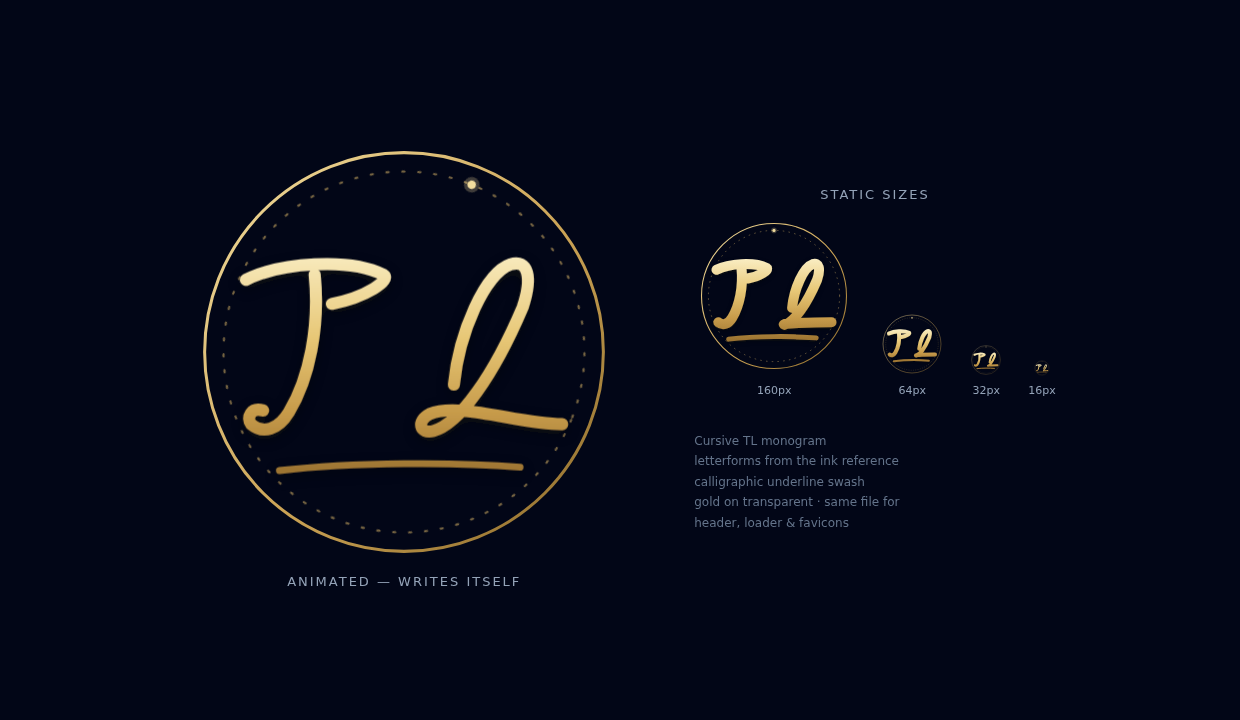
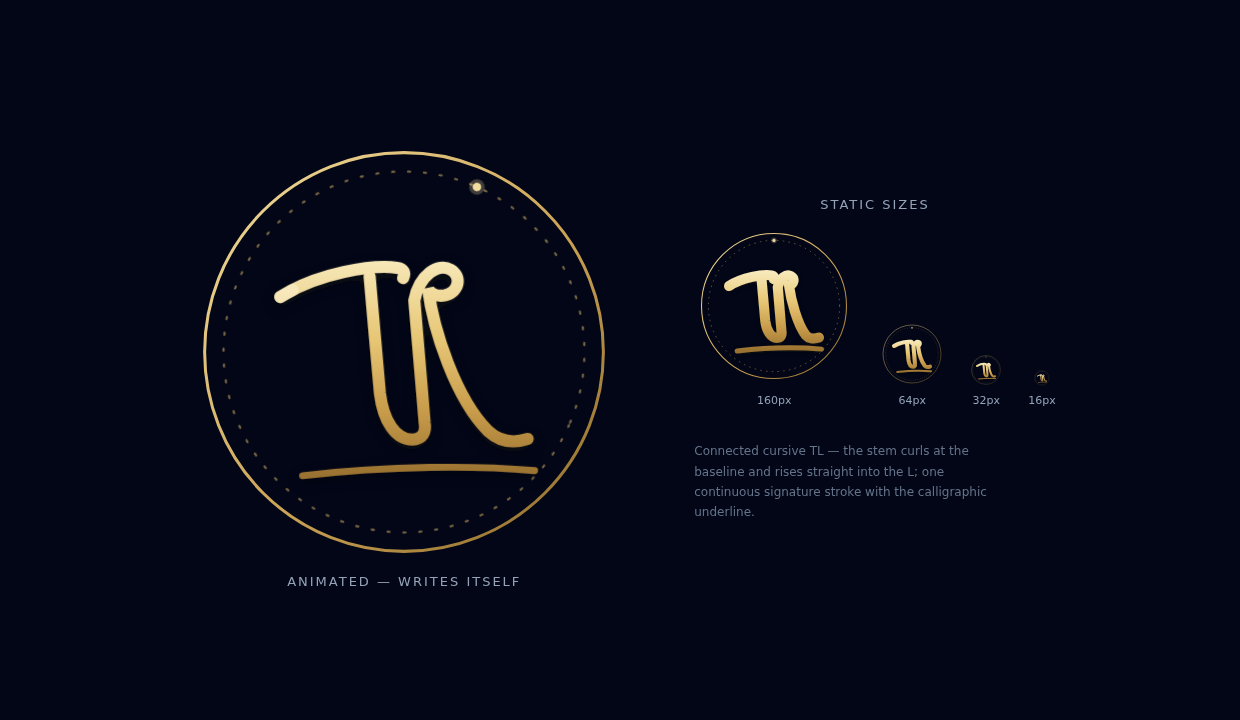
feat: recreate cursive TL as a connected signature ligature (tight nesting)
Recreation per feedback: the transplanted wordmark letters left a big
void between T and L (measured 63-65px at every height band). The
monogram is now drawn as one connected cursive signature:

- T crossbar sweeps across the top and hooks down just left of the L
- the T stem descends, curls at the baseline, and rises straight into
  the L — a hairpin join like real cursive letter connections
- the L continues up into its apex loop, bowls down-right, and exits
  with a long tail; calligraphic underline sweeps beneath both
- write-on animation: bar, then the entire stem->curl->rise->loop->
  bowl->tail journey as ONE continuous pen stroke (1.15s), then the
  underline; pen-tip glints retrace every 7s

Gap verification: external T-L void now 8px at the top and ~35px
hairpin channel mid-height (was 63-65px); remaining voids are
letter-internal counters only. Static favicon variant opens the apex
loop and keeps the hairpin as a solid loop at stroke 32; full PNG/ICO/
apple-touch set regenerated, favicon cache-bust bumped to v4.

Verified: progressive draw 0.05% -> 7.3% (13.8% letters), liveness
3.2k px; header 4.1% gold @48px; loader logo-only, in-app gold profile
0% -> 6.3%; footer bare emblem 3.9%. Tests 8/8, build green.

diff --git a/pages/_document.js b/pages/_document.js
@@ -4,12 +4,12 @@ export default function Document() {
   return (
     <Html>
       <Head>
-        <link rel="shortcut icon" href="/favicon.ico?v=3" />
-        <link rel="icon" type="image/x-icon" href="/favicon.ico?v=3" />
-        <link rel="icon" type="image/svg+xml" href="/favicon.svg?v=3" />
-        <link rel="icon" type="image/png" sizes="32x32" href="/favicon-32x32.png?v=3" />
-        <link rel="icon" type="image/png" sizes="16x16" href="/favicon-16x16.png?v=3" />
-        <link rel="apple-touch-icon" sizes="180x180" href="/apple-touch-icon.png?v=3" />
+        <link rel="shortcut icon" href="/favicon.ico?v=4" />
+        <link rel="icon" type="image/x-icon" href="/favicon.ico?v=4" />
+        <link rel="icon" type="image/svg+xml" href="/favicon.svg?v=4" />
+        <link rel="icon" type="image/png" sizes="32x32" href="/favicon-32x32.png?v=4" />
+        <link rel="icon" type="image/png" sizes="16x16" href="/favicon-16x16.png?v=4" />
+        <link rel="apple-touch-icon" sizes="180x180" href="/apple-touch-icon.png?v=4" />
         <link rel="preconnect" href="https://fonts.googleapis.com" />
         <link rel="preconnect" href="https://fonts.gstatic.com" crossOrigin="true" />
         <link href="https://fonts.googleapis.com/css2?family=Plus+Jakarta+Sans:wght@400;500;600;700;800&display=swap" rel="stylesheet" />

diff --git a/src/components/Layout/Metadata.jsx b/src/components/Layout/Metadata.jsx
@@ -20,12 +20,12 @@ export const SiteMetadata = ({
       <meta name="theme-color" content="#0369A1" />
       <meta name="color-scheme" content="light" />
 
-      <link rel="shortcut icon" href="/favicon.ico?v=3" />
-      <link rel="icon" type="image/x-icon" href="/favicon.ico?v=3" />
-      <link rel="icon" type="image/svg+xml" href="/favicon.svg?v=3" />
-      <link rel="icon" type="image/png" sizes="32x32" href="/favicon-32x32.png?v=3" />
-      <link rel="icon" type="image/png" sizes="16x16" href="/favicon-16x16.png?v=3" />
-      <link rel="apple-touch-icon" sizes="180x180" href="/apple-touch-icon.png?v=3" />
+      <link rel="shortcut icon" href="/favicon.ico?v=4" />
+      <link rel="icon" type="image/x-icon" href="/favicon.ico?v=4" />
+      <link rel="icon" type="image/svg+xml" href="/favicon.svg?v=4" />
+      <link rel="icon" type="image/png" sizes="32x32" href="/favicon-32x32.png?v=4" />
+      <link rel="icon" type="image/png" sizes="16x16" href="/favicon-16x16.png?v=4" />
+      <link rel="apple-touch-icon" sizes="180x180" href="/apple-touch-icon.png?v=4" />
       <link rel="manifest" href="/site.webmanifest" />
 
       <meta property="og:type" content="website" />
